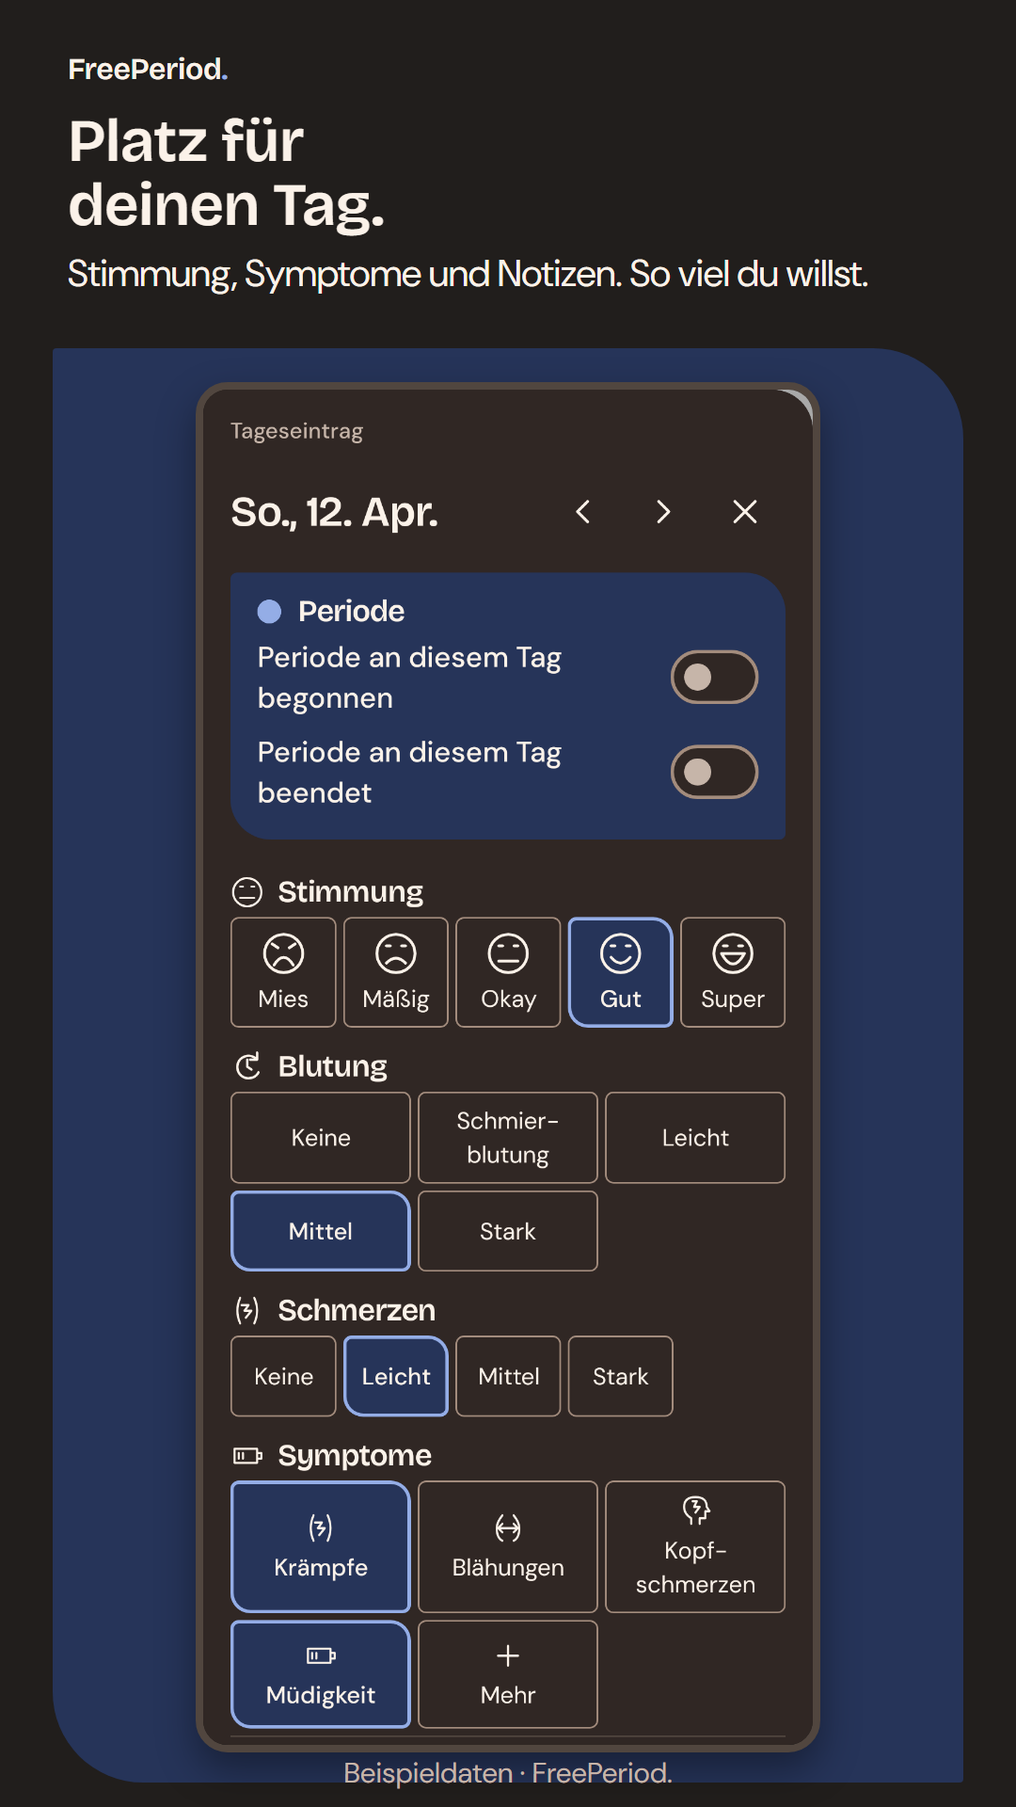
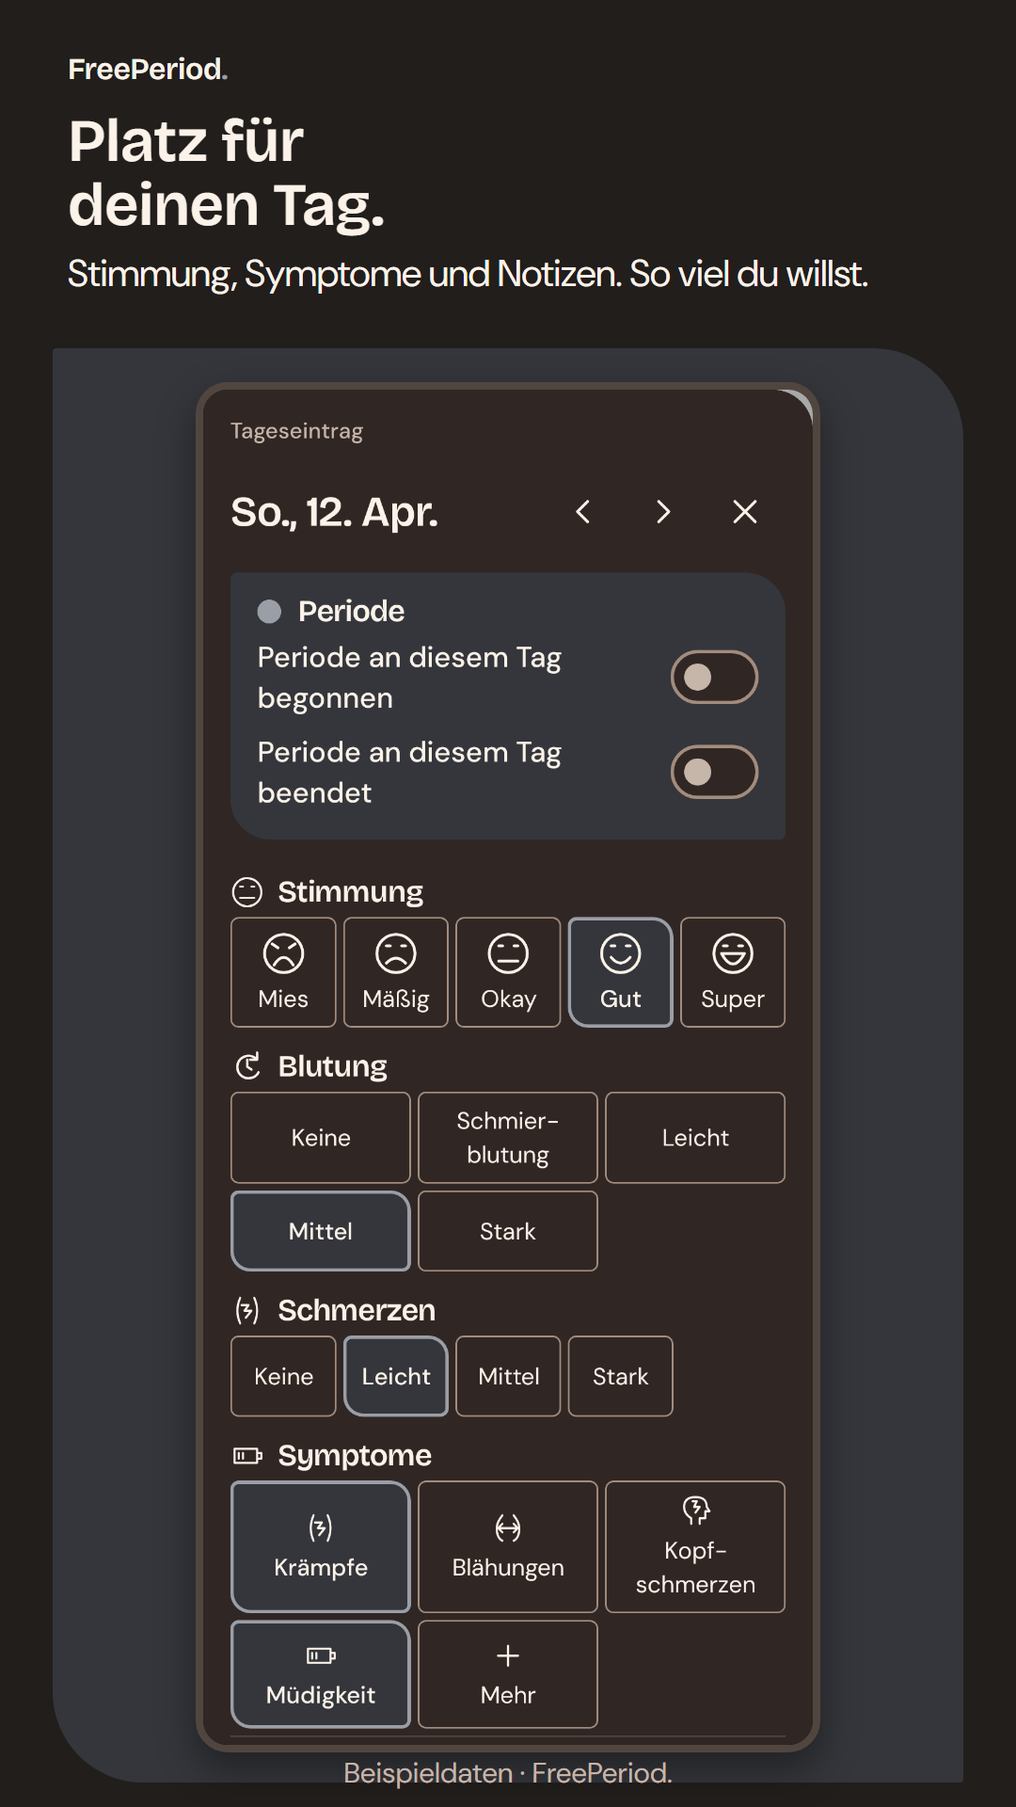
Release 1.2.0 (versionCode 6): store screenshots with soft light (Coral, Plum, Sage) and dark neutral (Ink, Cobalt) looks; store texts and release notes for the import and nine colours; privacy pages for the default backup password and imports

diff --git a/store/screenshots-de.html b/store/screenshots-de.html
@@ -16,37 +16,37 @@
         <p class="caption">Neun Farben und ein dunkler Modus. Ganz nach dir.</p>
       </header>
       <div class="phone-frame light"><img src="../app/src/test/screenshots/today/regular_deLight.png" width="1080" height="2400" alt="Hell · Koralle. App-Ansicht mit Beispieldaten."></div>
-      <div class="phone-frame dark"><img src="../app/src/test/screenshots/today/regularCobalt_deDark.png" width="1080" height="2400" alt="Dunkel · Kobalt. App-Ansicht mit Beispieldaten."></div>
+      <div class="phone-frame dark"><img src="../app/src/test/screenshots/today/regularInk_deDark.png" width="1080" height="2400" alt="Dunkel · Tinte. App-Ansicht mit Beispieldaten."></div>
       <p class="mode-label light">Hell · Koralle</p>
-      <p class="mode-label dark">Dunkel · Kobalt</p>
+      <p class="mode-label dark">Dunkel · Tinte</p>
       <ul class="swatches" aria-label="Neun Akzentfarben"><li style="background:#f3b6a4"></li><li style="background:#d6b6d6"></li><li style="background:#b8ccac"></li><li style="background:#accadb"></li><li style="background:#e3c17f"></li><li style="background:#2f3440"></li><li style="background:#2f6b4f"></li><li style="background:#3456a6"></li><li style="background:#b24a22"></li></ul>
       <footer>Beispieldaten · FreePeriod.</footer>
     </article>
-    <article id="shot-period" class="shot" aria-labelledby="title-period">
+    <article id="shot-period" class="shot plum" aria-labelledby="title-period">
       <header>
         <div class="wordmark">FreePeriod<span class="stop">.</span></div>
         <h2 id="title-period">Dein Zyklus<br>als Kreis.</h2>
         <p class="caption">Zwischen Kalender und Zykluskreis wischen.</p>
       </header>
-      <div class="phone-frame"><img src="../app/src/test/screenshots/today/ring_deLight.png" width="1080" height="2400" alt="Dein Zyklus als Kreis. App-Ansicht mit Beispieldaten."></div>
+      <div class="phone-frame"><img src="../app/src/test/screenshots/today/ringPlum_deLight.png" width="1080" height="2400" alt="Dein Zyklus als Kreis. App-Ansicht mit Beispieldaten."></div>
       <footer>Beispieldaten · FreePeriod.</footer>
     </article>
-    <article id="shot-diary" class="shot dark" aria-labelledby="title-diary">
+    <article id="shot-diary" class="shot dark ink" aria-labelledby="title-diary">
       <header>
         <div class="wordmark">FreePeriod<span class="stop">.</span></div>
         <h2 id="title-diary">Platz für<br>deinen Tag.</h2>
         <p class="caption">Stimmung, Symptome und Notizen. So viel du willst.</p>
       </header>
-      <div class="phone-frame"><img src="../app/src/test/screenshots/day/filledCobalt_deDark.png" width="1080" height="2400" alt="Platz für deinen Tag. App-Ansicht mit Beispieldaten."></div>
+      <div class="phone-frame"><img src="../app/src/test/screenshots/day/filledInk_deDark.png" width="1080" height="2400" alt="Platz für deinen Tag. App-Ansicht mit Beispieldaten."></div>
       <footer>Beispieldaten · FreePeriod.</footer>
     </article>
-    <article id="shot-history" class="shot" aria-labelledby="title-history">
+    <article id="shot-history" class="shot sage" aria-labelledby="title-history">
       <header>
         <div class="wordmark">FreePeriod<span class="stop">.</span></div>
         <h2 id="title-history">Dein Verlauf.<br>Deine Muster.</h2>
-        <p class="caption">Graphen und Verlauf, von einer Woche bis zu einem Jahr.</p>
+        <p class="caption">Graphen und Verlauf, von Woche bis Jahr.</p>
       </header>
-      <div class="phone-frame"><img src="../app/src/test/screenshots/history/charts_deLight.png" width="1080" height="2400" alt="Dein Verlauf. Deine Muster. App-Ansicht mit Beispieldaten."></div>
+      <div class="phone-frame"><img src="../app/src/test/screenshots/history/chartsSage_deLight.png" width="1080" height="2400" alt="Dein Verlauf. Deine Muster. App-Ansicht mit Beispieldaten."></div>
       <footer>Beispieldaten · FreePeriod.</footer>
     </article>
     <article id="shot-settings" class="shot dark" aria-labelledby="title-settings">

diff --git a/store/screenshots.html b/store/screenshots.html
@@ -16,37 +16,37 @@
         <p class="caption">Nine colours and a dark mode. Make it yours.</p>
       </header>
       <div class="phone-frame light"><img src="../app/src/test/screenshots/today/regular_enLight.png" width="1080" height="2400" alt="Light · Coral. App preview with example entries."></div>
-      <div class="phone-frame dark"><img src="../app/src/test/screenshots/today/regularCobalt_enDark.png" width="1080" height="2400" alt="Dark · Cobalt. App preview with example entries."></div>
+      <div class="phone-frame dark"><img src="../app/src/test/screenshots/today/regularInk_enDark.png" width="1080" height="2400" alt="Dark · Ink. App preview with example entries."></div>
       <p class="mode-label light">Light · Coral</p>
-      <p class="mode-label dark">Dark · Cobalt</p>
+      <p class="mode-label dark">Dark · Ink</p>
       <ul class="swatches" aria-label="Nine accent colours"><li style="background:#f3b6a4"></li><li style="background:#d6b6d6"></li><li style="background:#b8ccac"></li><li style="background:#accadb"></li><li style="background:#e3c17f"></li><li style="background:#2f3440"></li><li style="background:#2f6b4f"></li><li style="background:#3456a6"></li><li style="background:#b24a22"></li></ul>
       <footer>Example entries · FreePeriod.</footer>
     </article>
-    <article id="shot-period" class="shot" aria-labelledby="title-period">
+    <article id="shot-period" class="shot plum" aria-labelledby="title-period">
       <header>
         <div class="wordmark">FreePeriod<span class="stop">.</span></div>
         <h2 id="title-period">Your cycle<br>as a ring.</h2>
         <p class="caption">Swipe between calendar and cycle ring.</p>
       </header>
-      <div class="phone-frame"><img src="../app/src/test/screenshots/today/ring_enLight.png" width="1080" height="2400" alt="Your cycle as a ring. App preview with example entries."></div>
+      <div class="phone-frame"><img src="../app/src/test/screenshots/today/ringPlum_enLight.png" width="1080" height="2400" alt="Your cycle as a ring. App preview with example entries."></div>
       <footer>Example entries · FreePeriod.</footer>
     </article>
-    <article id="shot-diary" class="shot dark" aria-labelledby="title-diary">
+    <article id="shot-diary" class="shot dark ink" aria-labelledby="title-diary">
       <header>
         <div class="wordmark">FreePeriod<span class="stop">.</span></div>
         <h2 id="title-diary">Make room<br>for your day.</h2>
         <p class="caption">Mood, symptoms and notes. As much as you want.</p>
       </header>
-      <div class="phone-frame"><img src="../app/src/test/screenshots/day/filledCobalt_enDark.png" width="1080" height="2400" alt="Make room for your day. App preview with example entries."></div>
+      <div class="phone-frame"><img src="../app/src/test/screenshots/day/filledInk_enDark.png" width="1080" height="2400" alt="Make room for your day. App preview with example entries."></div>
       <footer>Example entries · FreePeriod.</footer>
     </article>
-    <article id="shot-history" class="shot" aria-labelledby="title-history">
+    <article id="shot-history" class="shot sage" aria-labelledby="title-history">
       <header>
         <div class="wordmark">FreePeriod<span class="stop">.</span></div>
         <h2 id="title-history">Look back<br>at your patterns.</h2>
         <p class="caption">Charts and history, from a week to a year.</p>
       </header>
-      <div class="phone-frame"><img src="../app/src/test/screenshots/history/charts_enLight.png" width="1080" height="2400" alt="Look back at your patterns. App preview with example entries."></div>
+      <div class="phone-frame"><img src="../app/src/test/screenshots/history/chartsSage_enLight.png" width="1080" height="2400" alt="Look back at your patterns. App preview with example entries."></div>
       <footer>Example entries · FreePeriod.</footer>
     </article>
     <article id="shot-settings" class="shot dark" aria-labelledby="title-settings">

diff --git a/site/privacy/de/index.html b/site/privacy/de/index.html
@@ -17,7 +17,7 @@
   </header>
   <main id="main" class="policy shell">
     <h1>Datenschutzerklärung<span class="stop">.</span></h1>
-    <p class="quiet">Gültig ab: 2026-10-11</p>
+    <p class="quiet">Gültig ab: 2026-10-20</p>
     <div class="summary">
       <p class="lead">Dein Tagebuch bleibt auf deinem Handy.</p>
       <p>FreePeriod hat kein Konto, keine Werbung, kein Abo und keine SDKs für Nutzungsanalysen oder Absturzberichte. Die Android-Berechtigung <code>INTERNET</code> fehlt. Über die App erhalten wir keine deiner Einträge. Die Google-Play-Version bietet einen freiwilligen einmaligen Kauf zur Unterstützung an; den wickelt Google Play ab.</p>
@@ -41,7 +41,8 @@
     <p>In der Google-Play-Version kannst du FreePeriod mit einem freiwilligen einmaligen Kauf unterstützen, der nichts freischaltet. Kauf und Zahlung wickelt Google Play nach <a href="https://policies.google.com/privacy?hl=de">Googles Datenschutzerklärung</a> ab. Dafür enthält die App die Google Play Billing Library, die mit der Play-Store-App auf deinem Handy spricht; FreePeriod erfährt nur, ob du unterstützt hast. Die Bibliothek brächte eine Netzwerkberechtigung für Googles eigene Diagnose mit; FreePeriod entfernt sie, die App hat also weiterhin keinen Internetzugriff. Die F-Droid-Version enthält keinen Kauf und keine Google-Bibliothek.</p>
     <p>Wenn du eine Website öffnest oder einen Dateianbieter auswählst, nutzt du andere Apps auf deinem Gerät. Diese können Internetzugriff haben, obwohl FreePeriod keinen hat.</p>
     <h2>4. Backups, CSV-Dateien und ein neues Handy</h2>
-    <p>Über die Dateiauswahl von Android kannst du verschlüsselte Backups erstellen oder öffnen sowie CSV-Dateien exportieren oder importieren. Du bestimmst Datei und Speicherort. Backups sind mit deinem gewählten Passwort geschützt. Bewahre es gut auf: Wir können es nicht wiederherstellen. CSV-Dateien sind lesbarer Text und werden von FreePeriod nicht verschlüsselt.</p>
+    <p>Über die Dateiauswahl von Android kannst du verschlüsselte Backups erstellen oder öffnen sowie CSV-Dateien exportieren oder importieren. Du bestimmst Datei und Speicherort. Backups sind mit deinem gewählten Passwort geschützt. Bewahre es gut auf: Wir können es nicht wiederherstellen. Lässt du das Passwort leer, nutzt FreePeriod ein festes Standardpasswort, das im Quellcode steht – wer eine solche Datei bekommt, kann sie öffnen. CSV-Dateien sind lesbarer Text und werden von FreePeriod nicht verschlüsselt.</p>
+    <p>Du kannst außerdem deine Periodendaten aus der Export-Datei einer anderen Perioden-App importieren (zum Beispiel einer ZIP-Datei, die dir diese App geschickt hat, mit dem Passwort aus deren E-Mail). FreePeriod öffnet und liest diese Datei nur auf deinem Handy; nichts wird irgendwohin gesendet.</p>
     <p>Du kannst auch automatische Backups einschalten: Täglich oder wöchentlich schreibt FreePeriod ein verschlüsseltes Backup in einen Ordner, den du in der Ordnerauswahl von Android gewählt hast, und behält die fünf neuesten. Damit das im Hintergrund laufen kann, bleibt das Backup-Passwort auf deinem Handy, versiegelt mit einem Schlüssel aus dem Android-Keystore. Schaltest du automatische Backups aus, wird es entfernt.</p>
     <p>Wählst du einen Cloud-Ordner, kann die App des jeweiligen Anbieters Dateien nach dessen Bedingungen und Datenschutzregeln hoch- oder herunterladen. Diese Übertragung läuft über jene App, nicht über einen FreePeriod-Server. Dateien, die du mit anderen teilst, liegen danach auch in deren Verantwortung.</p>
     <p>Die Android-Sicherungsregeln der App schließen automatische Cloud-Backups aus. Auf unterstützten Android-Versionen kann Android App-Daten bei der Einrichtung direkt auf ein neues Handy übertragen. Diese Übertragung zwischen Geräten übernimmt das System; wir erhalten die Daten nicht.</p>

diff --git a/site/privacy/index.html b/site/privacy/index.html
@@ -17,7 +17,7 @@
   </header>
   <main id="main" class="policy shell">
     <h1>Privacy policy<span class="stop">.</span></h1>
-    <p class="quiet">Effective: 2026-10-11</p>
+    <p class="quiet">Effective: 2026-10-20</p>
     <div class="summary">
       <p class="lead">Your diary stays on your phone.</p>
       <p>FreePeriod has no account, ads, subscription, analytics SDK or crash-reporting SDK. It has no Android <code>INTERNET</code> permission. The developer does not receive your entries through the app. The Google Play version offers an optional one-time purchase to support the app; Google Play handles it.</p>
@@ -41,7 +41,8 @@
     <p>The Google Play version lets you support FreePeriod with an optional one-time purchase that unlocks nothing. Google Play handles the purchase and the payment under <a href="https://policies.google.com/privacy">Google’s privacy policy</a>. For this the app contains the Google Play Billing Library, which talks to the Play Store app on your phone; FreePeriod only learns whether you have supported it. The library would bring a network permission for Google’s own diagnostics; FreePeriod removes it, so the app still has no internet access. The F-Droid version contains no purchase and no Google library.</p>
     <p>Opening a website or choosing a file provider uses other apps on your device. Those apps may have internet access even though FreePeriod does not.</p>
     <h2>4. Backups, CSV files and moving to another phone</h2>
-    <p>You can create or open encrypted backup files and export or import CSV files through Android’s system file picker. You choose the file and location. Backup files are protected with the password you choose; keep that password safe because the developer cannot recover it. CSV files are readable text and are not encrypted by FreePeriod.</p>
+    <p>You can create or open encrypted backup files and export or import CSV files through Android’s system file picker. You choose the file and location. Backup files are protected with the password you choose; keep that password safe because the developer cannot recover it. If you leave the password empty, FreePeriod uses a fixed default password that is published in its source code, so anyone who gets such a file can open it. CSV files are readable text and are not encrypted by FreePeriod.</p>
+    <p>You can also import your period dates from an export file of another period app (for example a ZIP file that app sent you, with the password from its e-mail). FreePeriod opens and reads that file on your phone only; nothing is sent anywhere.</p>
     <p>You can also turn on automatic backups: daily or weekly, FreePeriod writes an encrypted backup file into a folder you chose in Android’s folder picker and keeps the five newest. So that this can run in the background, the backup password is kept on your phone, sealed with a key from the Android Keystore. Turning automatic backups off removes it.</p>
     <p>If you select a cloud folder, its provider app may upload or download the file under that provider’s terms and privacy policy. This transfer is handled by that app, not a FreePeriod server. Files you share with someone else are under their control after sharing.</p>
     <p>The app’s Android backup rules exclude automatic cloud backup. On supported Android versions, Android can copy app data directly to a replacement phone during device setup. This is a system-managed device transfer; the developer does not receive the data.</p>

diff --git a/app/src/test/java/org/freeperiod/app/ui/history/HistoryScreenshotTest.kt b/app/src/test/java/org/freeperiod/app/ui/history/HistoryScreenshotTest.kt
@@ -8,6 +8,7 @@ import com.github.takahirom.roborazzi.captureRoboImage
 import java.time.LocalDate
 import java.util.Locale
 import org.freeperiod.app.R
+import org.freeperiod.app.ui.theme.Accent
 import org.freeperiod.app.ui.theme.FreePeriodTheme
 import org.freeperiod.engine.*
 import org.freeperiod.engine.backup.*
@@ -36,10 +37,11 @@ class HistoryScreenshotTest {
     @Test @Config(sdk = [35], qualifiers = "de-rDE-w360dp-h800dp-night-xxhdpi")
     fun charts_deDark() = captureLevels("charts_deDark", Locale.GERMANY, dark = true)
     @Test @Config(sdk = [35], qualifiers = "de-rDE-w360dp-h800dp-xxhdpi")
-    fun charts_deLight() = captureLevels("charts_deLight", Locale.GERMANY)
+    fun chartsSage_deLight() = captureLevels("chartsSage_deLight", Locale.GERMANY, accent = Accent.SAGE)
+    @Test fun chartsSage_enLight() = captureLevels("chartsSage_enLight", Locale.US, accent = Accent.SAGE)
     @Test fun chartsYear_enLight() = captureLevels("chartsYear_enLight", Locale.US, range = "Year")
     @Test fun chartsWeek_enLight() = captureLevels("chartsWeek_enLight", Locale.US, range = "Week")
-    private fun captureLevels(name: String, locale: Locale, dark: Boolean = false, range: String? = null) {
+    private fun captureLevels(name: String, locale: Locale, dark: Boolean = false, range: String? = null, accent: Accent = Accent.CORAL) {
         Locale.setDefault(locale)
         val today = clock()
         val moods = listOf(Mood.GOOD, Mood.OKAY, Mood.LOW, Mood.LOW, Mood.OKAY, Mood.GREAT, Mood.GOOD)
@@ -54,7 +56,7 @@ class HistoryScreenshotTest {
         // Appetite starts hidden; turned on, it gets its chart.
         val state = historyState(BackupData(periods = periods, dayLogs = logs, tags = emptyList(), settings = BackupSettings(null, false),
             overrides = listOf(UiOverride("category:appetite", false, 4))), today)
-        compose.setContent { FreePeriodTheme(darkTheme = dark) { Surface { HistoryScreen(state, { _, _ -> }) } } }
+        compose.setContent { FreePeriodTheme(darkTheme = dark, accent = accent) { Surface { HistoryScreen(state, { _, _ -> }) } } }
         compose.waitForIdle()
         range?.let {
             compose.onNodeWithTag("history-list").performScrollToNode(hasText(it))

diff --git a/app/src/test/java/org/freeperiod/app/ui/today/TodayScreenshotTest.kt b/app/src/test/java/org/freeperiod/app/ui/today/TodayScreenshotTest.kt
@@ -60,14 +60,15 @@ class TodayScreenshotTest {
     fun ring_deLarge() = capture("ring_deLarge", "ongoing", Locale.GERMANY, fontScale = 1.5f, ring = true)
     @Test fun ringScheduledBreak_enLight() = capture("ringScheduledBreak_enLight", "scheduledBreak", ring = true)
     @Test fun ringMenopause_enLight() = capture("ringMenopause_enLight", "menopause", ring = true)
-    // Store screenshots: light Coral next to dark Cobalt, in both languages.
-    @Test fun regularCobalt_enDark() = capture("regularCobalt_enDark", "regular", dark = true, accent = Accent.COBALT)
+    // Store screenshots: light Coral next to dark Ink, the ring in light Plum, in both languages.
+    @Test fun regularInk_enDark() = capture("regularInk_enDark", "regular", dark = true, accent = Accent.INK)
     @Test @Config(sdk = [35], qualifiers = "de-rDE-w360dp-h800dp-xxhdpi")
-    fun regularCobalt_deDark() = capture("regularCobalt_deDark", "regular", Locale.GERMANY, dark = true, accent = Accent.COBALT)
+    fun regularInk_deDark() = capture("regularInk_deDark", "regular", Locale.GERMANY, dark = true, accent = Accent.INK)
     @Test @Config(sdk = [35], qualifiers = "de-rDE-w360dp-h800dp-xxhdpi")
     fun regular_deLight() = capture("regular_deLight", "regular", Locale.GERMANY)
     @Test @Config(sdk = [35], qualifiers = "de-rDE-w360dp-h800dp-xxhdpi")
-    fun ring_deLight() = capture("ring_deLight", "regular", Locale.GERMANY, ring = true)
+    fun ringPlum_deLight() = capture("ringPlum_deLight", "regular", Locale.GERMANY, ring = true, accent = Accent.PLUM)
+    @Test fun ringPlum_enLight() = capture("ringPlum_enLight", "regular", ring = true, accent = Accent.PLUM)
 
     @Test fun calendarPredicted_enLight() {
         Locale.setDefault(Locale.US)

diff --git a/store/artwork.css b/store/artwork.css
@@ -43,14 +43,21 @@ body.artwork { margin: 0; padding: 48px; width: max-content; }
   .screenshot-board { display: block; }
   .shot { break-after: page; }
 }
-/* Dark-mode panels (app dark background, Cobalt container), so the board shows both looks at a glance. */
+/* Dark-mode panels (app dark background, Cobalt container unless another accent class is set), so the board shows both looks at a glance. */
 .shot.dark { background: #211e1c; color: #fbf2e9; }
 .shot.dark::before { background: #263459; }
 .shot.dark .phone-frame { border-color: #51463f; background: #211e1c; box-shadow: 0 18px 40px #00000060; }
 .shot.dark footer { color: #c6b5a9; }
 .shot.dark .wordmark { color: #fbf2e9; }
 .shot.dark .stop { color: #94ade6; }
-/* First shot: light Coral and dark Cobalt side by side. */
+/* Per-shot accents (container colour behind the phone, accent dot in the wordmark), matching the app screenshot. */
+.shot.plum::before { background: #eeddee; }
+.shot.plum .stop { color: #b98fb9; }
+.shot.sage::before { background: #e0e9d8; }
+.shot.sage .stop { color: #8fae7f; }
+.shot.dark.ink::before { background: #34363b; }
+.shot.dark.ink .stop { color: #9a9ea6; }
+/* First shot: light Coral and dark Ink side by side. */
 .shot.duo::before { inset: 370px 540px 110px 56px; border-radius: 4px 0 0 96px; }
 .shot.duo::after { content: ""; position: absolute; inset: 370px 56px 110px 540px; background: #211e1c; border-radius: 0 96px 4px 0; }
 .shot.duo .phone-frame { z-index: 1; left: auto; transform: none; width: 462px; height: 1027px; border-width: 7px; }

diff --git a/app/src/test/java/org/freeperiod/app/ui/day/DayEntryScreenshotTest.kt b/app/src/test/java/org/freeperiod/app/ui/day/DayEntryScreenshotTest.kt
@@ -80,9 +80,9 @@ class DayEntryScreenshotTest {
     @Test @Config(sdk = [35], qualifiers = "de-rDE-w360dp-h800dp-xxhdpi")
     fun filled_deDark() = capture("filled_deDark", Locale.GERMANY, dark = true)
     @Test fun empty_enLarge() = capture("empty_enLarge", Locale.US, empty = true, fontScale = 1.5f)
-    @Test fun filledCobalt_enDark() = capture("filledCobalt_enDark", Locale.US, dark = true, accent = Accent.COBALT)
+    @Test fun filledInk_enDark() = capture("filledInk_enDark", Locale.US, dark = true, accent = Accent.INK)
     @Test @Config(sdk = [35], qualifiers = "de-rDE-w360dp-h800dp-xxhdpi")
-    fun filledCobalt_deDark() = capture("filledCobalt_deDark", Locale.GERMANY, dark = true, accent = Accent.COBALT)
+    fun filledInk_deDark() = capture("filledInk_deDark", Locale.GERMANY, dark = true, accent = Accent.INK)
 
     private fun capture(name: String, locale: Locale, dark: Boolean = false, empty: Boolean = false, fontScale: Float = 1f, menopause: Boolean = false,
         accent: Accent = Accent.CORAL) {
